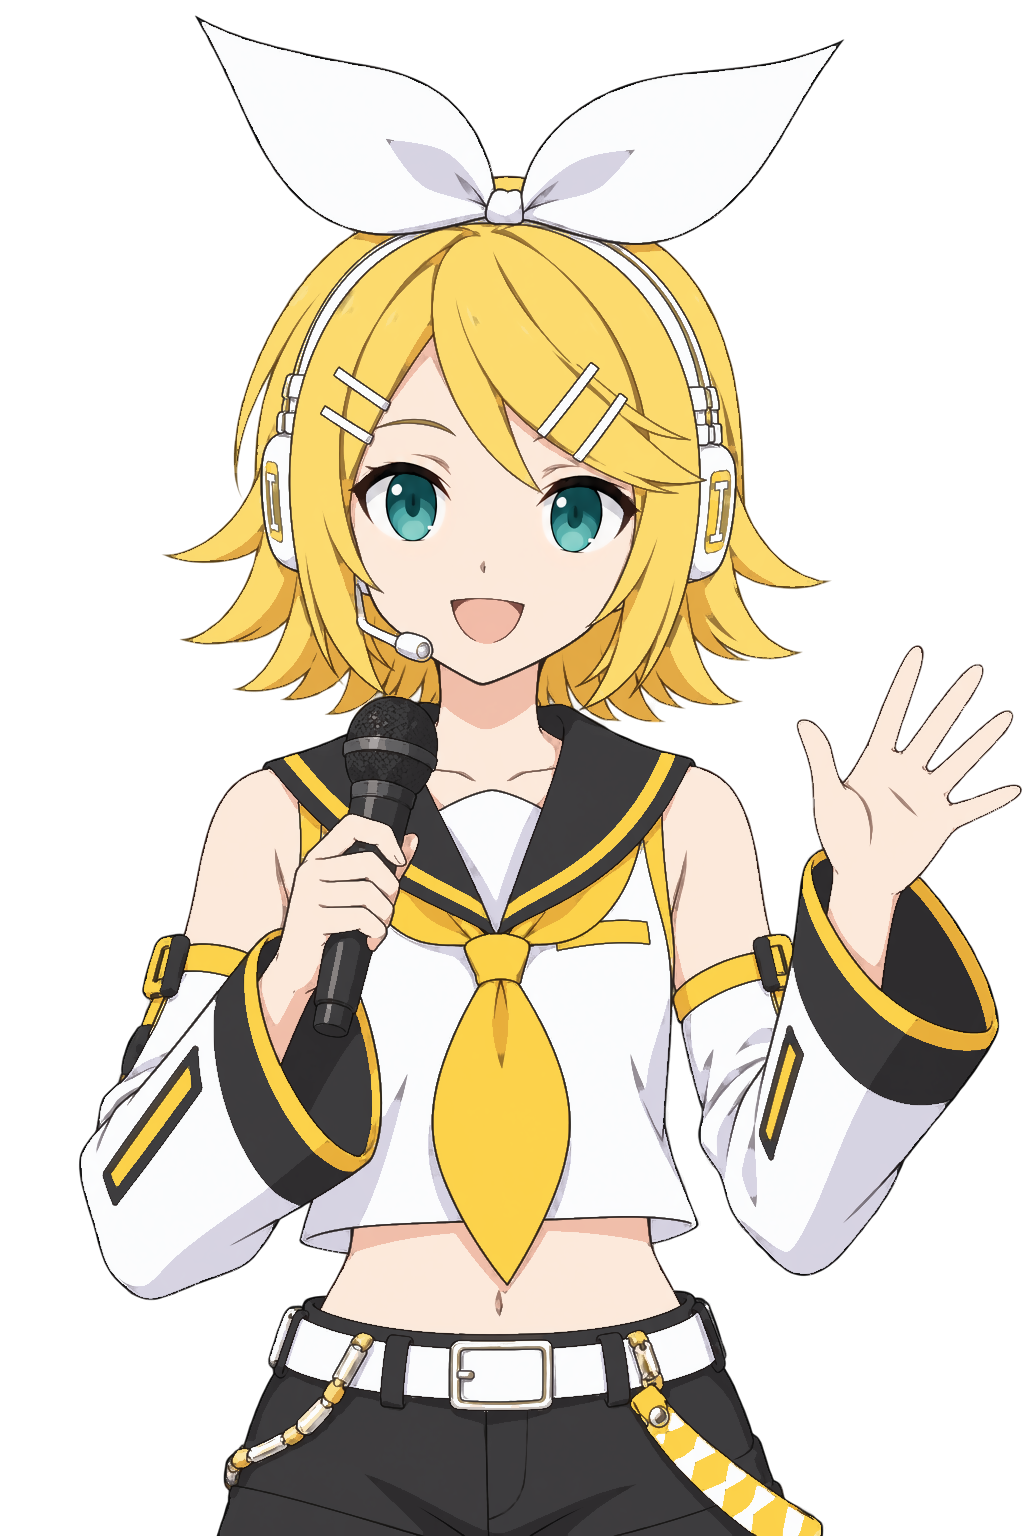
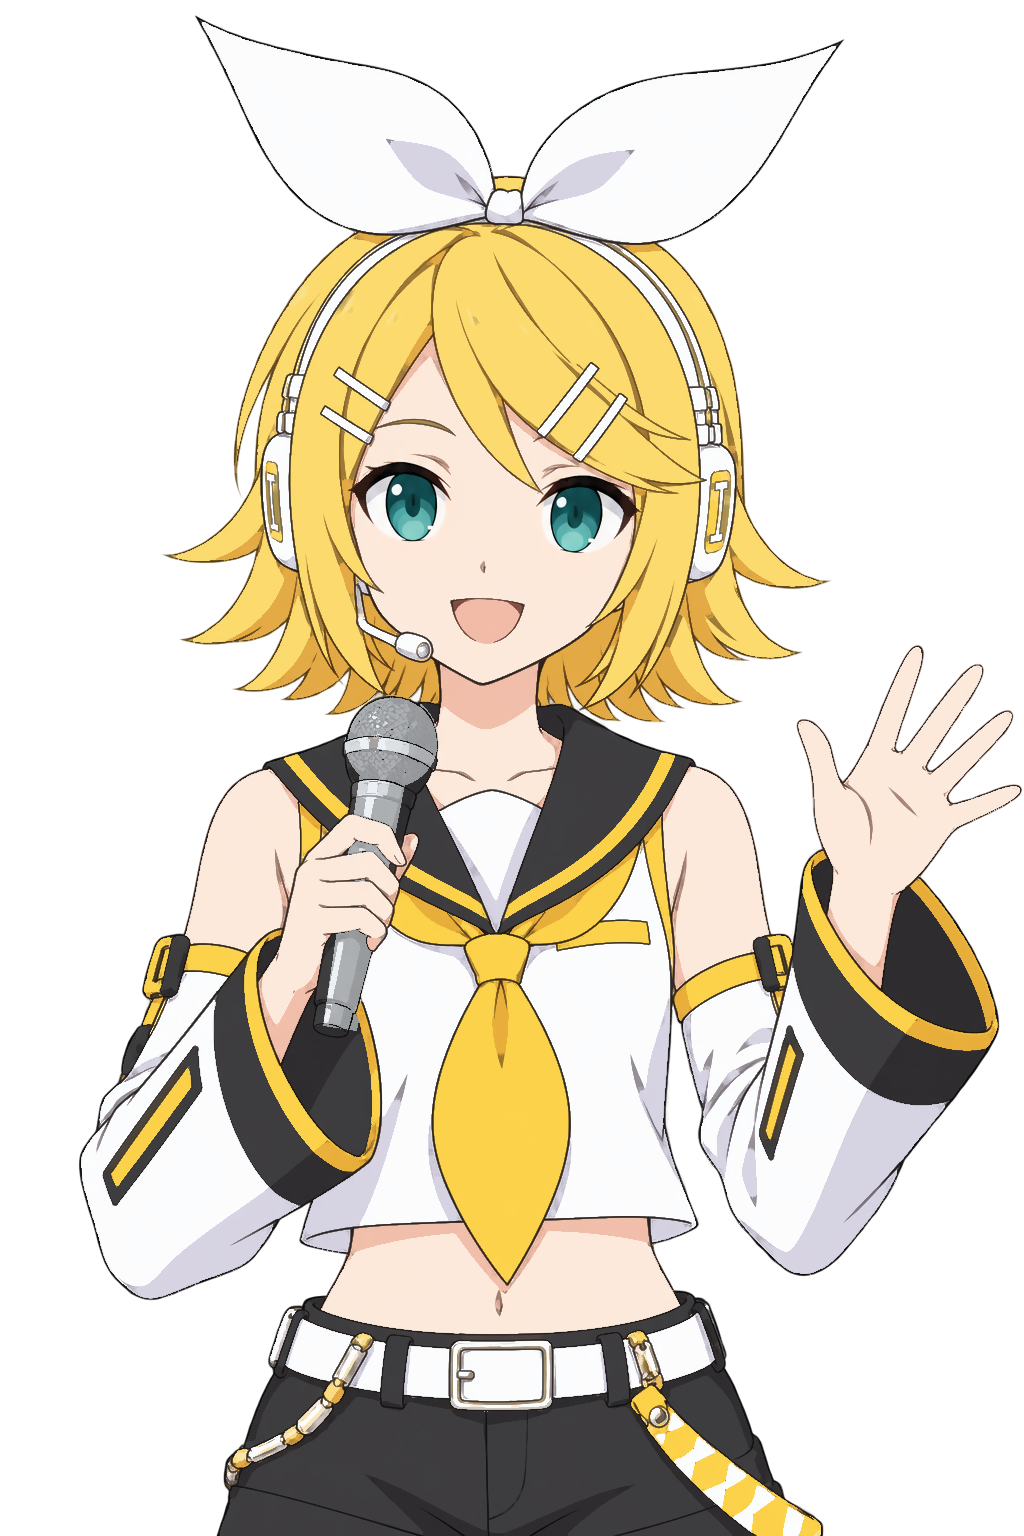
Give the TV host a silver microphone that reads on the grey screens
Her microphone was drawn black against her black sailor collar; on the
grey, halftone-printed TV pictures the two merged and the mic vanished.
silver_mic.py masks the mic's shape in the drawing and lifts its dark
fill to a light steel, keeping its outline, the grille's mesh and her
fingers as drawn; the room TV's picture is rebuilt from it.

Changed region(s): [[0.3125, 0.4375, 0.4375, 0.5625], [0.3125, 0.5938, 0.375, 0.6875]]

diff --git a/src/char/silver_mic.py b/src/char/silver_mic.py
@@ -1,0 +1,63 @@
+"""Turn the TV host's black microphone silver, so it reads on the grey, halftone-printed TV screens.
+
+python src/char/silver_mic.py            (after process.py rin_tv_host; then src/tools/make_tv_picture.py)
+The drawing's mic is black against her black sailor collar: once the TV picture is grey and printed in
+dots, the two merge and the mic disappears. The mic's shape (a ball grille, a band and a tapered handle,
+in the drawing's pixels) is drawn as a mask; inside it the dark fill is lifted to a light metal while its
+black outline and her fingers stay as drawn, and the grille's mesh texture is kept.
+"""
+import sys
+from pathlib import Path
+
+import cv2
+import numpy as np
+
+ROOT = Path(__file__).resolve().parents[2]
+POSE = ROOT / "assets" / "char" / "rin_tv_host"
+
+# the mic in the drawing's own pixels (1024 x 1536)
+GRILLE = ((391, 740), 47)                       # centre, radius
+HANDLE = ((383, 776), (340, 1028), 23, 17)      # top centre, bottom centre, half-width at top and bottom
+
+
+def mic_mask(h, w):
+    m = np.zeros((h, w), np.uint8)
+    (cx, cy), r = GRILLE
+    cv2.circle(m, (cx, cy), r, 255, -1)
+    (x0, y0), (x1, y1), w0, w1 = HANDLE
+    d = np.array([x1 - x0, y1 - y0], np.float32)
+    n = np.array([-d[1], d[0]], np.float32) / np.linalg.norm(d)
+    poly = np.array([[x0, y0] + n * w0, [x1, y1] + n * w1, [x1, y1] - n * w1, [x0, y0] - n * w0], np.int32)
+    cv2.fillPoly(m, [poly], 255)
+    return m > 0
+
+
+def main():
+    src = POSE / "color.png"
+    img = cv2.imread(str(src), cv2.IMREAD_UNCHANGED)
+    if img is None:
+        sys.exit(f"missing {src}")
+    bgr = img[..., :3].astype(np.float32)
+    lum = bgr @ np.array([0.114, 0.587, 0.299], np.float32)
+    inside = mic_mask(*lum.shape)
+    # only the mic's own neutral greys: her fingers' warm outline and its soft edge stay as drawn
+    neutral = (bgr.max(axis=2) - bgr.min(axis=2)) <= 14
+    # the fill: dark but not the black outline, and not her (light) skin
+    fill = inside & neutral & (lum > 30) & (lum < 140)
+    # the deep shadow side: wide dark areas (the outline is a thin line, an opening removes it)
+    dark = ((lum < 34) & inside & neutral).astype(np.uint8)
+    shadow = cv2.morphologyEx(dark, cv2.MORPH_OPEN, np.ones((5, 5), np.uint8)) > 0
+    k = np.clip((lum - 40) / 70, 0, 1)
+    metal = 150 + 95 * k                          # 40 -> 150 (shadow side), 110+ -> 245 (highlight)
+    metal = np.where(shadow, 100 + lum, metal)    # the darkest side stays a darker steel
+    out = bgr.copy()
+    tint = np.array([1.0, 0.985, 0.97], np.float32)  # a cool steel
+    sel = fill | shadow
+    out[sel] = (metal[sel, None] * tint).clip(0, 255)
+    img[..., :3] = out.astype(np.uint8)
+    cv2.imwrite(str(src), img)
+    print("silver mic:", int(sel.sum()), "pixels recoloured in", src)
+
+
+if __name__ == "__main__":
+    main()
